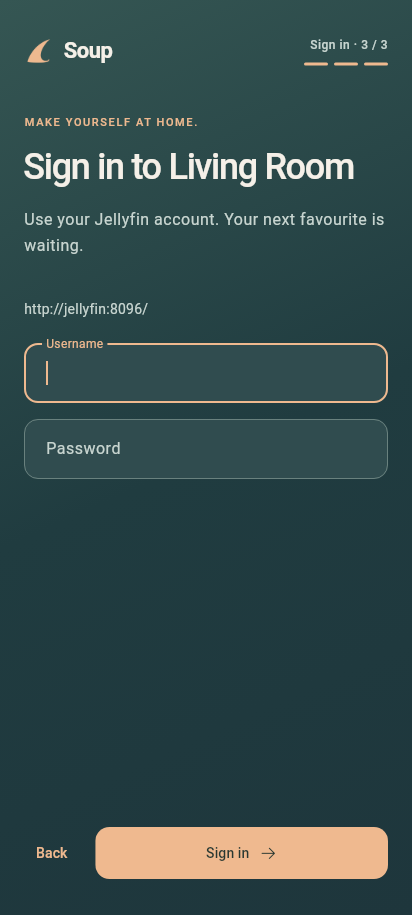
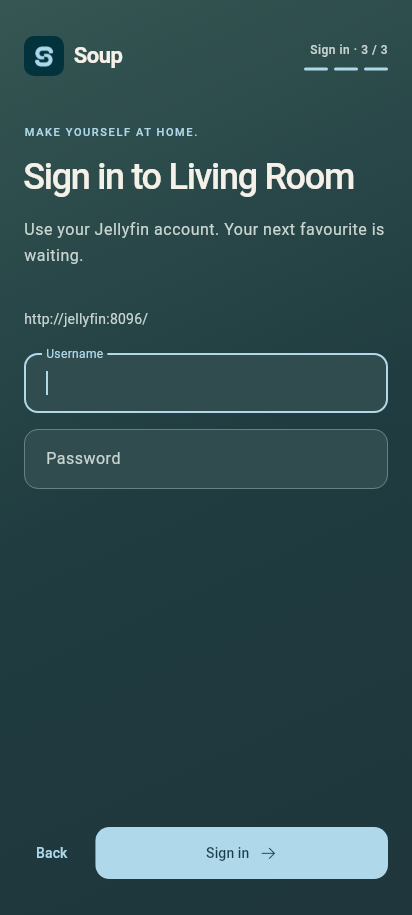
Introduce generated S branding and mist-blue onboarding accents (SOUP-85)

diff --git a/apps/android/test/branding_assets_test.dart b/apps/android/test/branding_assets_test.dart
@@ -1,0 +1,56 @@
+import 'dart:io';
+import 'dart:ui' as ui;
+
+import 'package:flutter/foundation.dart';
+import 'package:flutter/material.dart';
+import 'package:flutter/services.dart';
+import 'package:flutter_test/flutter_test.dart';
+import 'package:soup/src/features/appearance/soup_theme.dart';
+import 'package:soup/src/features/shared/soup_mark.dart';
+
+void main() {
+  TestWidgetsFlutterBinding.ensureInitialized();
+
+  test('Flutter and Android use the same square generated artwork', () async {
+    final data = await rootBundle.load(SoupMark.assetName);
+    final bytes = data.buffer.asUint8List();
+    final native = await File(
+      'android/app/src/main/res/drawable-nodpi/soup_launcher_art.png',
+    ).readAsBytes();
+    expect(listEquals(bytes, native), isTrue);
+    final codec = await ui.instantiateImageCodec(bytes);
+    final frame = await codec.getNextFrame();
+    try {
+      expect(frame.image.width, frame.image.height);
+      expect(frame.image.width, greaterThanOrEqualTo(1024));
+      final pixels = await frame.image.toByteData();
+      expect(
+        pixels!.getUint8(3),
+        255,
+        reason: 'The badge is intentionally opaque',
+      );
+    } finally {
+      frame.image.dispose();
+      codec.dispose();
+    }
+  });
+
+  for (final size in [24.0, 40.0, 64.0]) {
+    testWidgets('brand badge has correct bounds and no tint at $size', (
+      tester,
+    ) async {
+      await tester.pumpWidget(
+        MaterialApp(
+          theme: SoupTheme.onboarding,
+          home: Center(child: SoupMark(size: size)),
+        ),
+      );
+      final image = tester.widget<Image>(find.byType(Image));
+      expect(image.image, const AssetImage(SoupMark.assetName));
+      expect(image.color, isNull);
+      expect(image.excludeFromSemantics, isTrue);
+      expect(tester.getSize(find.byType(SoupMark)), Size.square(size));
+      expect(tester.takeException(), isNull);
+    });
+  }
+}

diff --git a/apps/android/lib/src/features/connectivity/connectivity_screen.dart b/apps/android/lib/src/features/connectivity/connectivity_screen.dart
@@ -6,6 +6,7 @@ import 'package:phosphoricons_flutter/phosphoricons_flutter.dart';
 import 'package:qr_flutter/qr_flutter.dart';
 import 'package:soup/src/features/appearance/soup_theme.dart';
 import 'package:soup/src/features/connectivity/connectivity_view_model.dart';
+import 'package:soup/src/features/shared/soup_mark.dart';
 import 'package:soup_tailscale/soup_tailscale.dart';
 
 class ConnectivityScreen extends StatefulWidget {
@@ -287,13 +288,7 @@ class _ConnectivityScreenState extends State<ConnectivityScreen> {
     };
     return Row(
       children: [
-        Image.asset(
-          'assets/branding/soup-sidebar-mark.png',
-          width: 30,
-          height: 30,
-          color: colors.primary,
-          excludeFromSemantics: true,
-        ),
+        const SoupMark(),
         const SizedBox(width: 10),
         Text(
           'Soup',
@@ -605,6 +600,7 @@ class _ConnectivityScreenState extends State<ConnectivityScreen> {
   Widget _tailscaleArea(BuildContext context, bool short) {
     final status = model.status;
     final url = status.authorizationUrl;
+    final stacked = MediaQuery.sizeOf(context).width < 840;
     if (status.phase == TailscaleConnectionPhase.awaitingLogin && url != null) {
       final qr = Container(
         key: const ValueKey('tailscale-authorization-qr'),
@@ -615,7 +611,11 @@ class _ConnectivityScreenState extends State<ConnectivityScreen> {
         ),
         child: QrImageView(
           data: url.toString(),
-          size: short ? 176 : 220,
+          size: short
+              ? 176
+              : stacked
+              ? 200
+              : 220,
           padding: const EdgeInsets.all(16),
           backgroundColor: Colors.white,
           eyeStyle: const QrEyeStyle(

diff --git a/apps/android/lib/src/features/library/library_screen.dart b/apps/android/lib/src/features/library/library_screen.dart
@@ -13,6 +13,7 @@ import 'package:soup/src/features/shared/adaptive_backdrop_contrast.dart';
 import 'package:soup/src/features/shared/artwork_placeholder.dart';
 import 'package:soup/src/features/shared/fading_artwork.dart';
 import 'package:soup/src/features/shared/stale_data_banner.dart';
+import 'package:soup/src/features/shared/soup_mark.dart';
 
 enum _FruityDestination { home, tv, movies, settings }
 
@@ -1394,11 +1395,7 @@ class _FruityTopNavigation extends StatelessWidget {
         padding: const EdgeInsets.symmetric(horizontal: 32, vertical: 10),
         child: Row(
           children: [
-            Icon(
-              PhosphorIconsRegular.cookingPot,
-              color: colors.primary,
-              size: 30,
-            ),
+            const SoupMark(),
             const SizedBox(width: 10),
             Text('Soup', style: Theme.of(context).textTheme.titleLarge),
             const Spacer(),

diff --git a/apps/android/lib/src/features/appearance/appearance_screen.dart b/apps/android/lib/src/features/appearance/appearance_screen.dart
@@ -1,6 +1,7 @@
 import 'package:flutter/material.dart';
 import 'package:phosphoricons_flutter/phosphoricons_flutter.dart';
 import 'package:soup/src/data/appearance/appearance_settings.dart';
+import 'package:soup/src/features/shared/soup_mark.dart';
 
 class AppearanceScreen extends StatefulWidget {
   const AppearanceScreen({
@@ -44,11 +45,7 @@ class _AppearanceScreenState extends State<AppearanceScreen> {
                 children: [
                   Row(
                     children: [
-                      Icon(
-                        PhosphorIconsRegular.cookingPot,
-                        color: Theme.of(context).colorScheme.primary,
-                        size: 34,
-                      ),
+                      const SoupMark(size: 44),
                       const SizedBox(width: 12),
                       Text(
                         'Make Soup yours',

diff --git a/apps/android/lib/src/features/appearance/soup_theme.dart b/apps/android/lib/src/features/appearance/soup_theme.dart
@@ -6,15 +6,16 @@ class SoupTheme {
 
   static const onboardingBackground = Color(0xFF203C40);
   static const onboardingGlow = Color(0xFF355653);
+  static const onboardingAccent = Color(0xFFAFD9EA);
 
   static ThemeData get onboarding {
     final colors =
         ColorScheme.fromSeed(
-          seedColor: const Color(0xFFEFB98F),
+          seedColor: onboardingAccent,
           brightness: Brightness.dark,
         ).copyWith(
-          primary: const Color(0xFFEFB98F),
-          onPrimary: const Color(0xFF293831),
+          primary: onboardingAccent,
+          onPrimary: const Color(0xFF193D48),
           surface: onboardingBackground,
           surfaceContainerHighest: const Color(0xFF3B5557),
           onSurface: const Color(0xFFF5F0E8),

diff --git a/apps/android/test/onboarding_screenshots_test.dart b/apps/android/test/onboarding_screenshots_test.dart
@@ -10,6 +10,7 @@ import 'package:soup/src/data/session/connection_preferences_store.dart';
 import 'package:soup/src/features/appearance/soup_theme.dart';
 import 'package:soup/src/features/connectivity/connectivity_screen.dart';
 import 'package:soup/src/features/connectivity/connectivity_view_model.dart';
+import 'package:soup/src/features/shared/soup_mark.dart';
 
 import 'support/connectivity_fakes.dart';
 
@@ -83,7 +84,7 @@ void main() {
       await tester.pumpAndSettle();
       await tester.runAsync(
         () => precacheImage(
-          const AssetImage('assets/branding/soup-sidebar-mark.png'),
+          const AssetImage(SoupMark.assetName),
           tester.element(find.byType(ConnectivityScreen)),
         ),
       );

diff --git a/apps/android/lib/src/features/shared/soup_mark.dart b/apps/android/lib/src/features/shared/soup_mark.dart
@@ -1,0 +1,22 @@
+import 'package:flutter/material.dart';
+
+/// The generated Soup app badge. It has its own opaque background, so it must
+/// not be tinted like the previous monochrome fin asset.
+class SoupMark extends StatelessWidget {
+  const SoupMark({this.size = 40, super.key});
+
+  static const assetName = 'assets/branding/soup-icon.png';
+  final double size;
+
+  @override
+  Widget build(BuildContext context) => ClipRRect(
+    borderRadius: BorderRadius.circular(size * 0.25),
+    child: Image.asset(
+      assetName,
+      width: size,
+      height: size,
+      filterQuality: FilterQuality.medium,
+      excludeFromSemantics: true,
+    ),
+  );
+}

diff --git a/apps/android/test/widget_test.dart b/apps/android/test/widget_test.dart
@@ -65,6 +65,10 @@ void main() {
       final viewport = tester.getRect(
         find.byKey(const ValueKey('setup-scroll')),
       );
+      final retry = tester.getRect(
+        find.byKey(const ValueKey('retry-tailscale-login-button')),
+      );
+      expect(retry.bottom, lessThanOrEqualTo(viewport.bottom + 1));
       final code = tester.getRect(qr);
       expect(code.top, greaterThanOrEqualTo(viewport.top - 1));
       expect(code.bottom, lessThanOrEqualTo(viewport.bottom + 1));

diff --git a/docs/branding/README.md b/docs/branding/README.md
@@ -1,0 +1,44 @@
+# Soup identity — geometric S
+
+Selected for visual review in SOUP-85 on 2026-09-08.
+
+The new mark uses two opposing rounded bands to suggest an S. Mist-blue
+controls replace the apricot accent on the approved teal onboarding canvas.
+Existing user-selectable library palettes are unchanged.
+
+## Assets and integration
+
+- [Generated master / Flutter asset](../../apps/android/assets/branding/soup-icon.png)
+- Android copy: `apps/android/android/app/src/main/res/drawable-nodpi/soup_launcher_art.png`
+- Shared widget: `SoupMark`, used in connectivity, appearance and library headers.
+- Android adaptive launcher: `@mipmap/soup_launcher` (Soup supports API 31+).
+
+The final PNG is a 1254 × 1254 opaque app badge, not a transparent silhouette
+or a vector master. Keep its own background and do not tint the entire image.
+Flutter rounds its corners at display time; Android applies its launcher mask.
+The generated S has generous padding for the adaptive-icon safe zone.
+Both app consumers use byte-identical copies, checked by a regression test.
+
+The previous fin PNG remains in the repository as an unused legacy source;
+it is no longer declared in Flutter's assets or referenced by the UI.
+
+## Generation provenance
+
+Generated with the built-in image generation tool (imagegen skill), not the
+CLI/API fallback. The selected output was copied unchanged into the repository.
+Earlier transparent ribbon studies were discarded because their alpha exports
+contained visible artifacts. The final deliberate opaque treatment avoids that
+problem. This is an original generated concept, not a trademark-clearance claim.
+
+## Final generation prompt
+
+```text
+Use case: logo-brand
+Asset type: finished square app icon for Soup, a contemporary Jellyfin film and television app.
+Primary request: A beautifully simple, original geometric S symbol, constructed from TWO thick opposing rounded geometric bands, balanced negative space, blunt softly rounded ends. Abstract and compact, with the clarity of a premium modern app identity. It should communicate fluidity without any literal illustration. Strong silhouette readable at 24 pixels. No sharp tips, no hooks, no fin-like curves.
+Style: absolutely FLAT two-colour vector-like graphic, perfectly uniform fills, impeccably clean smooth edges. No thin lines, no overlapping ribbon seams, no texture, no 3D or shading.
+Colours: solid mist-blue #AFD9EA symbol on a completely solid opaque deep-teal #203C40 square background. Every background pixel exactly the same deep teal. Do NOT make the background transparent; do NOT use any checkerboard. No gradients anywhere.
+Composition: one centered symbol, occupying 58 percent of the square canvas width and height, with generous even deep-teal padding on all sides. The canvas itself is a full square, not a rounded tile drawn on another background. No border.
+Text: none. No wordmark, labels, slogan or presentation sheet.
+Avoid: shark, fin, fish, cooking bowl, literal play triangle, ornamental curls, ribbons with folds, shadows, highlights, mockup, photograph, grain, speckles, checkerboard, watermarks. Deliver only the finished square app icon.
+```

diff --git a/docs/screenshots/onboarding/README.md b/docs/screenshots/onboarding/README.md
@@ -1,9 +1,10 @@
 # Onboarding review screenshots
 
 Current direction: a full-screen muted teal canvas, warm ivory typography and
-apricot controls. TV uses a side-by-side heading and form; phone uses a stacked
+mist-blue controls, with a generated geometric S app badge. TV uses a
+side-by-side heading and form; phone uses a stacked
 layout. There is no floating modal/card shell. These replace the earlier
-charcoal-and-orange captures (SOUP-84).
+charcoal-and-orange and apricot-accent captures (SOUP-84/85).
 
 These images render the production Flutter onboarding widgets using SDK Roboto
 fonts and fake connection/server responses. They are headless UI renders, not
